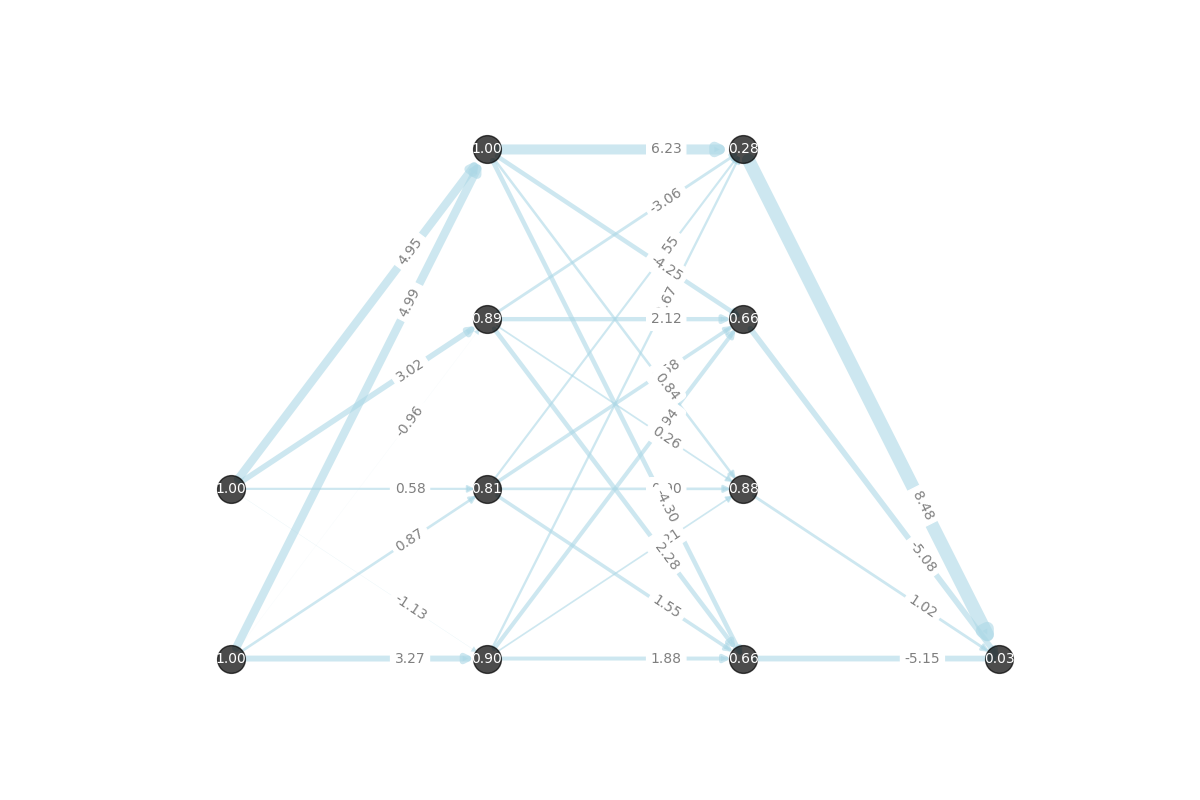
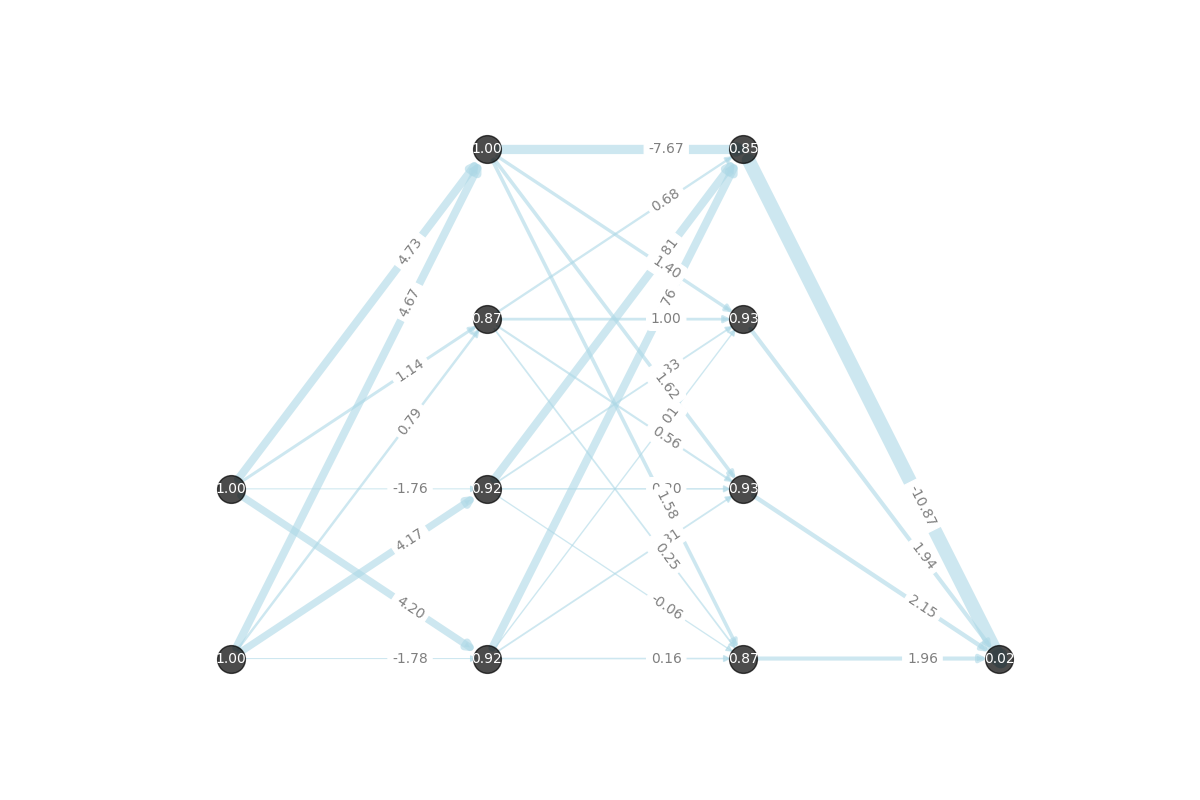
model save/loading

diff --git a/src/mimic/__main__.py b/src/mimic/__main__.py
@@ -14,9 +14,9 @@ def simple_test(M, TEST):
 
 
 def main():
-    np.set_printoptions(precision=4)
     # for reproducibility:
     # np.random.seed(1)
+    np.set_printoptions(precision=4)
 
     # dataset
     if not os.path.exists("data"):
@@ -31,23 +31,43 @@ def main():
         TRAIN = TEST = Dataset.load("data/ds-xor.npz")
 
     # model
-    M = Sequential([2, 4, 4, 1])
+    if not os.path.exists("data/models"):
+        os.mkdir("data/models")
+
+    if not os.path.exists("data/models/xor.npz"):
+        M = Sequential([2, 4, 4, 1])
+        can_skip_training = False
+    else:
+        M = Sequential.load("data/models/xor.npz")
+        can_skip_training = True
 
     # training
-    T = Trainer
-    T.train(
-        M,
-        TRAIN,
-        C=TrainingConfig(epochs=10000, learning_rate=0.25),
-    )
+    skip_training = False
+    if can_skip_training:
+        if input("Skip training? (y/N): ").lower() == "y":
+            skip_training = True
+
+    if not skip_training:
+        T = Trainer
+        T.train(
+            M,
+            TRAIN,
+            C=TrainingConfig(epochs=10000, learning_rate=0.25),
+        )
 
     # testing and evaluation
     R = ModelRunner(M, TEST)
     R.add_test(simple_test)
-    R.test()
+    success = R.test()
+
+    # save model
+    if success and (
+        not can_skip_training or input("Save model? (y/N): ").lower() == "y"
+    ):
+        M.save("data/models/xor.npz")
 
     # visualization
-    vis.draw_network(M, filename="network.png", show=True, save=True)
+    vis.draw_network(M, filename="network.png", save=True)  # , show=True)
 
 
 if __name__ == "__main__":

diff --git a/src/mimic/models/base.py b/src/mimic/models/base.py
@@ -75,3 +75,17 @@ class ANN(ABC):
                 self._G.nodes[(i, j)]["activations"] = activation[j]
 
         return self._G
+
+    def save(self, filename):
+        np.savez(
+            filename, **{"weight_" + str(i): w for i, w in enumerate(self.weights)}
+        )
+
+    @classmethod
+    def load(cls, filename):
+        data = np.load(filename)
+        weights = [data[f"weight_{i}"] for i in range(len(data))]
+        layer_sizes = [w.shape[0] for w in weights] + [weights[-1].shape[1]]
+        M = cls(layer_sizes)
+        M.weights = weights
+        return M
